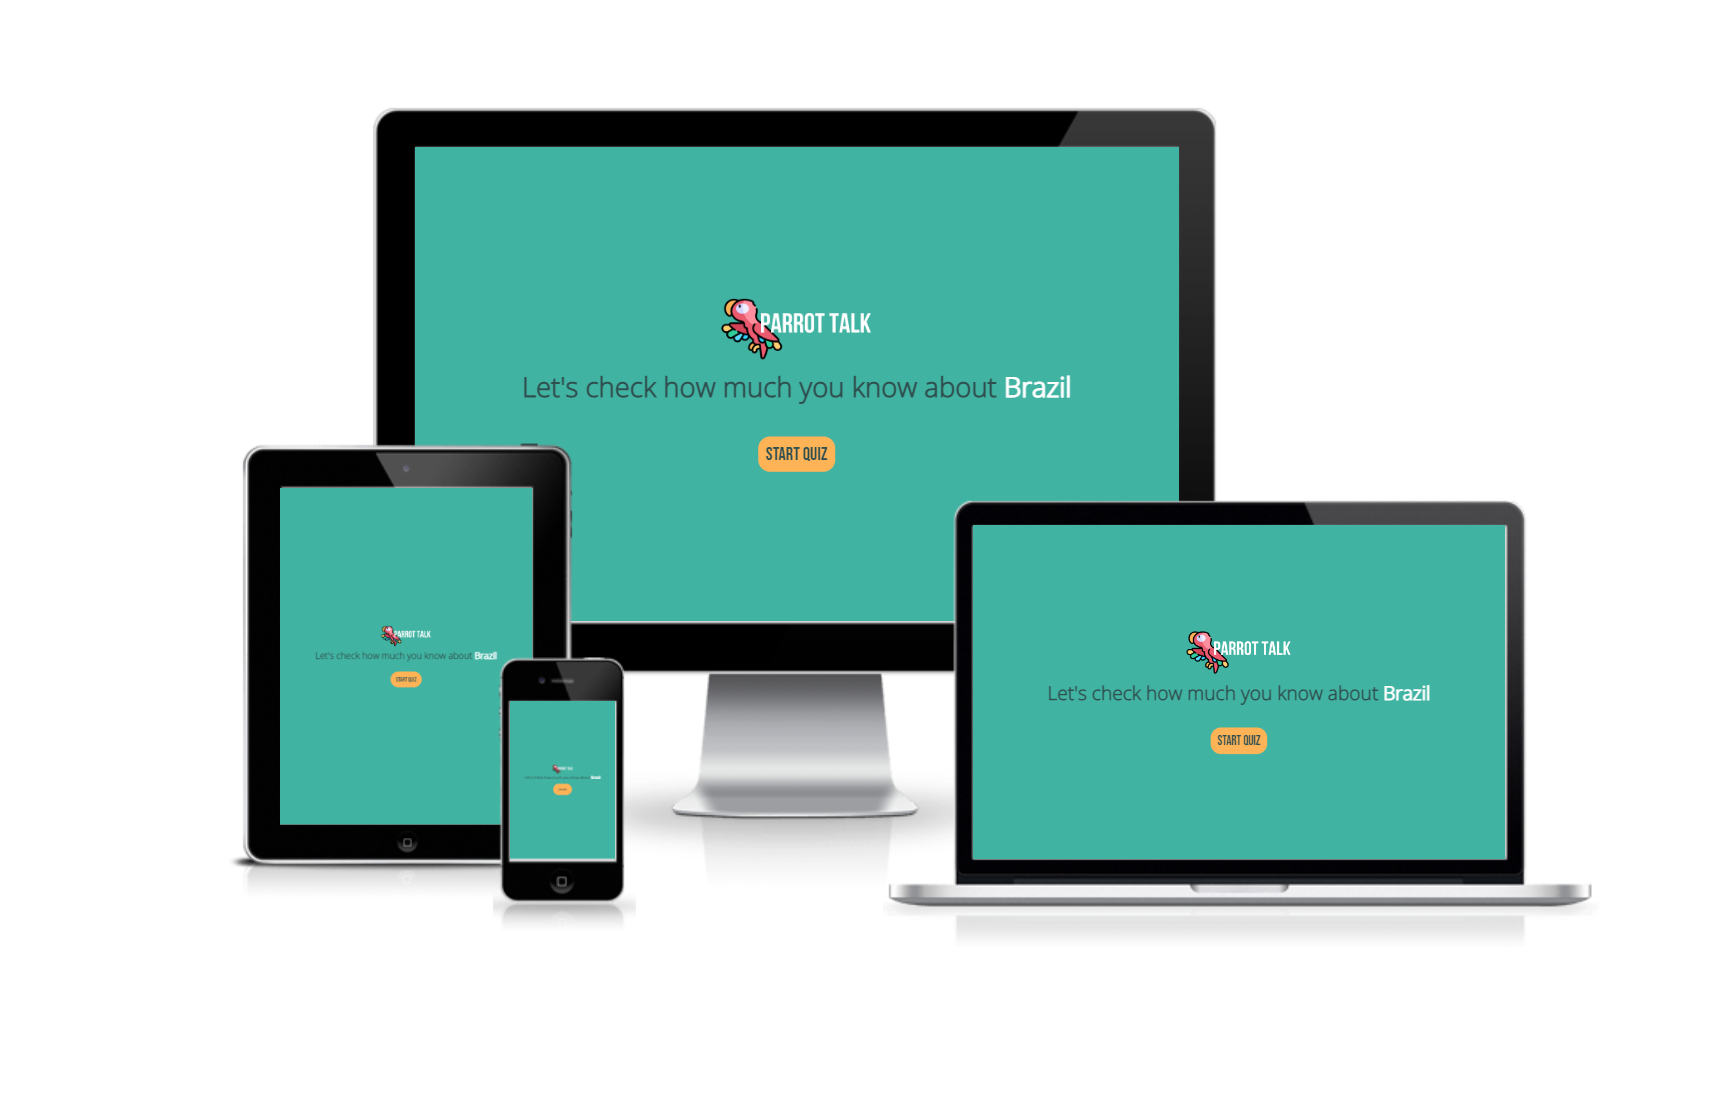
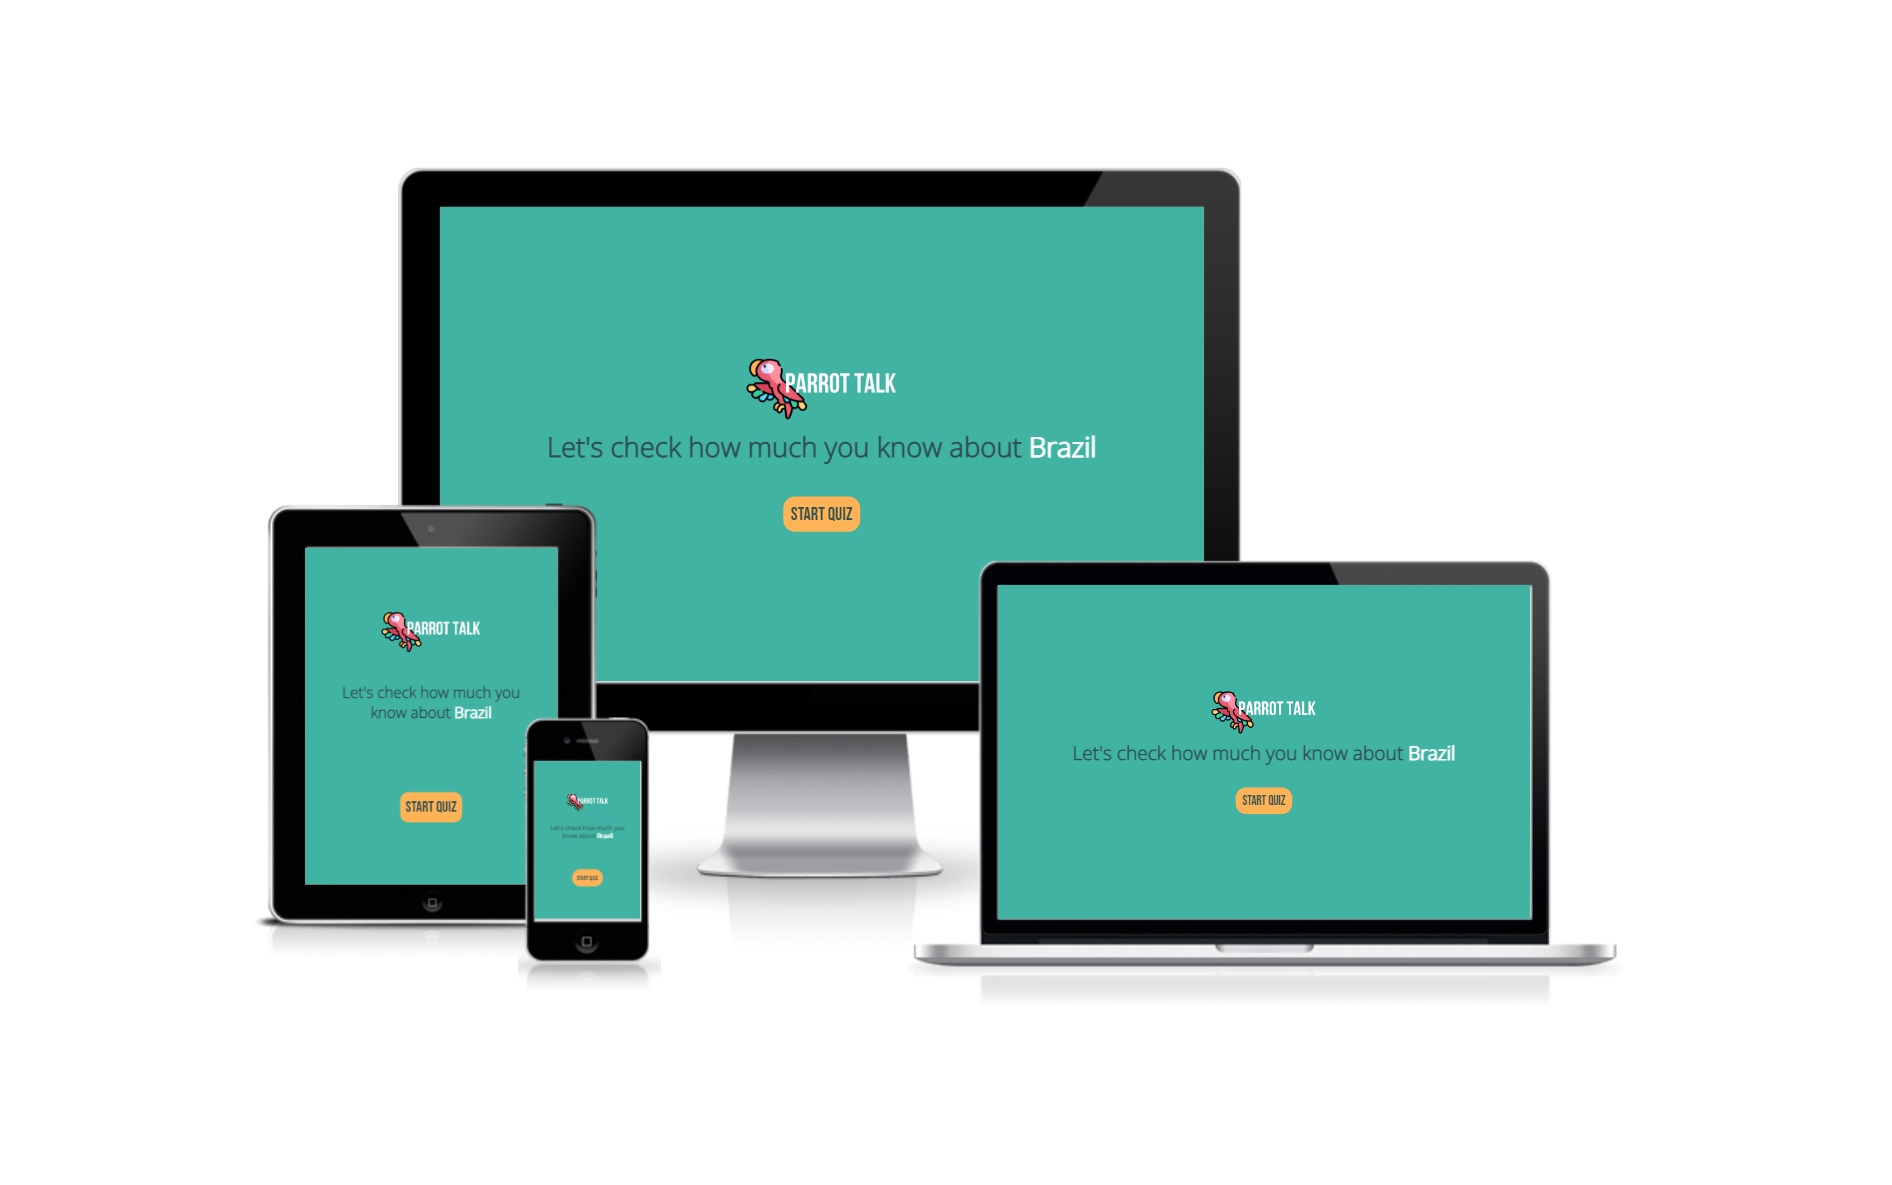
Adjust images on README

Changed region(s): [[0.124, 0.0918, 0.9304, 0.8569]]

diff --git a/README.md b/README.md
@@ -92,15 +92,16 @@ The game consists of three screens. Start, Game and End. The final version of th
 
 Start Screen
 
-![Start Screen](/assets/images/parrot-talk-start.png)
+![Start Screen](/assets/images/screencapture-start-quiz.png)
 
 Game Screen
 
-![Game Screen](/assets/images/parrot-talk-questions.png)
+![Game Screen 1](/assets/images/screencapture-game-screen1.png)
+![Game Screen 2](/assets/images/screencapture-game-screen2.png)
 
 End Screen
 
-![End Screen](/assets/images/readme-images/wireframe-end.jpg)
+![End Screen](/assets/images/screencapture-end-quiz-page.png)
 
 #### Colours
 
@@ -137,7 +138,7 @@ The Start Screen consists of the logo of the quiz, and a paragraph. Other elemen
 
  - Start button that takes the player to the game screen.
 
-![Start Screen](/assets/images/parrot-talk-start.png)
+![Start Screen](/assets/images/screencapture-start-quiz.png)
 
 #### Game Screen
 
@@ -163,7 +164,7 @@ Parrot Talk quiz is a linear game and all players end up at the end screen eithe
  - Restart Quiz button that generates a new game with the same 10 questions shuffled on a different order.
  - Finish button that takes the player to the start screen.
 
-![About us Section part 1](/assets/images/readme-images/end-screen.png)
+![About us Section part 1](/assets/images/screencapture-end-quiz-page.png)
 
 ### Features Left to Implement
 
